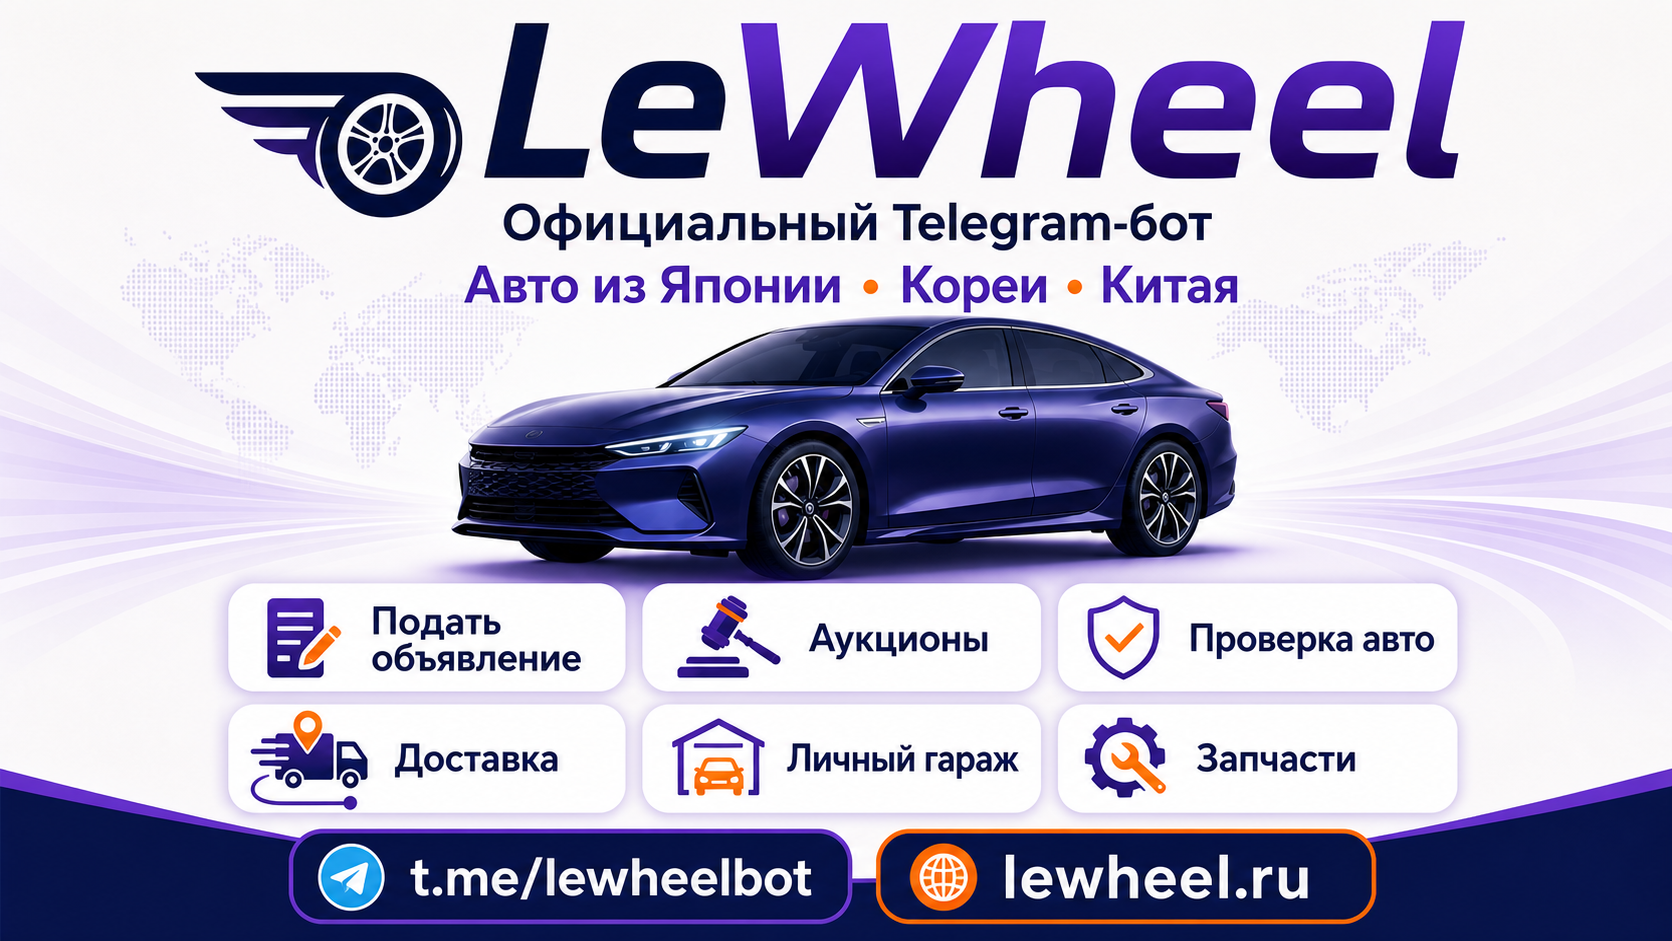
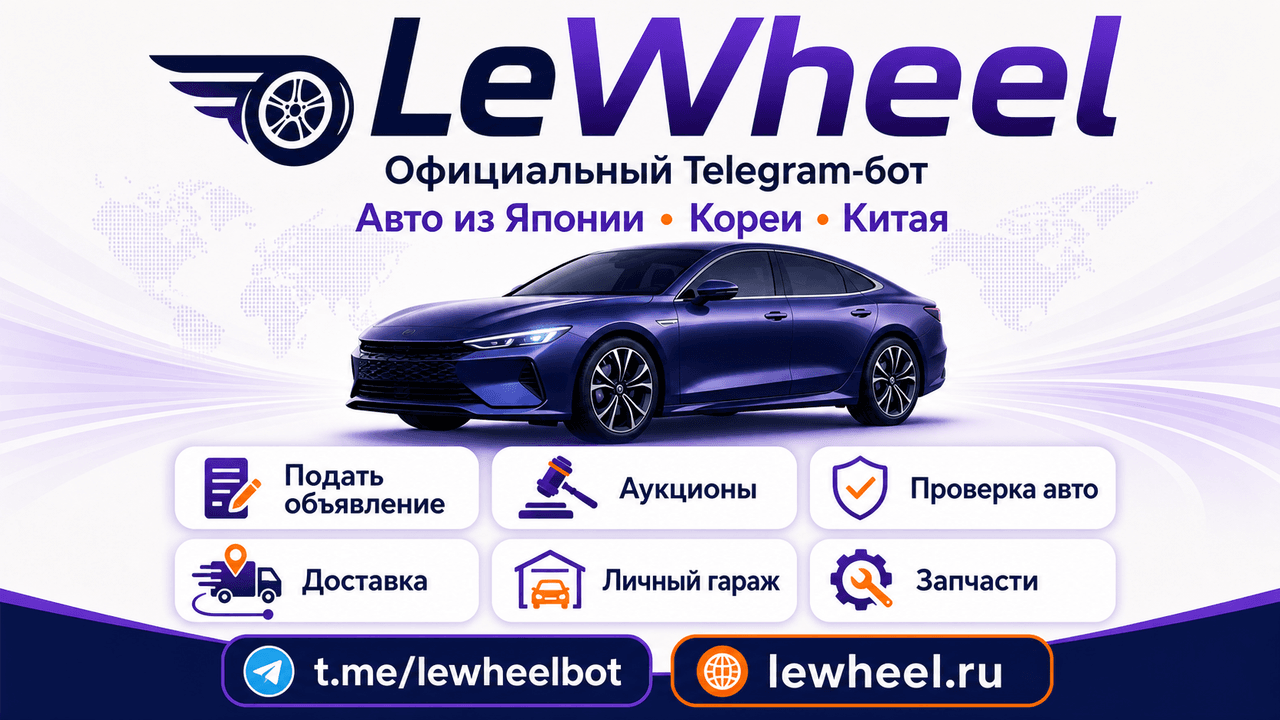
fix(telegram): модерация вставала из-за зависшей отправки картинки
В логах моста long-polling каждую минуту повторялось «Local webhook timed
out», а в приложении — «sendPhoto timed out». 600 неудачных удалений за
сутки и 74 обновления в очереди.

Механизм: вебхук делал await handleMessage до ответа. Отправка инфографики
к уведомлению о модерации занимала до 30 секунд (картинка 1.5 МБ, до трёх
повторов), а мост ждёт локальный вебхук 15. Ответ не приходил, offset не
двигался — одно и то же сообщение обрабатывалось по кругу, очередь стояла,
и остальные сообщения в чатах оставались без модерации.

Три исправления:

1. Вебхук отвечает сразу, обработка идёт следом. Удаление сообщения
   нарушителя — первое, что делает handleMessage, поэтому модерация не
   замедляется; в фоне остаётся только доставка уведомления.

2. Таймаут sendPhoto снижен с 30 до 12 секунд. Уведомление всё равно
   уходит текстом по запасному пути, ждать полминуты незачем.

3. Инфографика сжата с 1.5 МБ до 310 КБ (1672x941 -> 1280x720). Для
   превью в чате этого достаточно.

diff --git a/src/app/api/telegram/webhook/route.ts b/src/app/api/telegram/webhook/route.ts
@@ -486,12 +486,30 @@ export async function POST(request: NextRequest) {
     return NextResponse.json({ error: "Unauthorized" }, { status: 401 })
   }
 
+  let update: TelegramUpdate
   try {
-    const update = await request.json() as TelegramUpdate
-    if (update.message) await handleMessage(update.message)
-    return NextResponse.json({ ok: true })
+    update = await request.json() as TelegramUpdate
   } catch (error) {
-    console.error("Telegram webhook error:", error)
+    console.error("Telegram webhook payload error:", error)
     return NextResponse.json({ ok: true })
   }
+
+  if (!update.message) return NextResponse.json({ ok: true })
+
+  // Обработка запускается, но ответ не ждёт её завершения.
+  //
+  // Раньше здесь стоял await: отправка инфографики к уведомлению о модерации
+  // занимает до 30 секунд (картинка 1.5 МБ, до трёх повторов), а мост
+  // long-polling ждёт локальный вебхук только 15. Ответ не приходил, offset не
+  // двигался, и одно и то же сообщение обрабатывалось по кругу — очередь
+  // вставала, а остальные сообщения в чатах оставались без модерации.
+  //
+  // Удаление сообщения нарушителя — первое, что делает handleMessage, поэтому
+  // модерация от этого не замедляется; в фоне остаётся только доставка
+  // уведомления.
+  void handleMessage(update.message).catch((error) => {
+    console.error("Telegram webhook error:", error)
+  })
+
+  return NextResponse.json({ ok: true })
 }

diff --git a/src/lib/telegram.ts b/src/lib/telegram.ts
@@ -334,7 +334,10 @@ export async function telegramPhotoApi<T = unknown>(payload: Record<string, unkn
         "Content-Type": `multipart/form-data; boundary=${boundary}`,
         "Content-Length": requestBody.length,
       },
-      timeout: 30_000,
+      // Двенадцати секунд достаточно для картинки в несколько сотен килобайт.
+      // Тридцать копили зависшие запросы: уведомление всё равно уходит
+      // текстом по запасному пути, а ждать полминуты незачем.
+      timeout: 12_000,
     }, (response) => {
       let responseBody = ""
       response.setEncoding("utf8")
